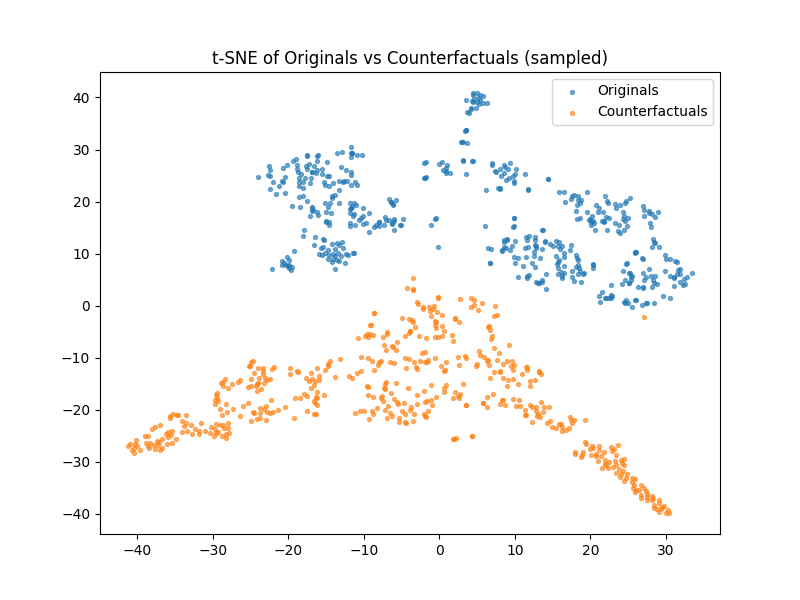
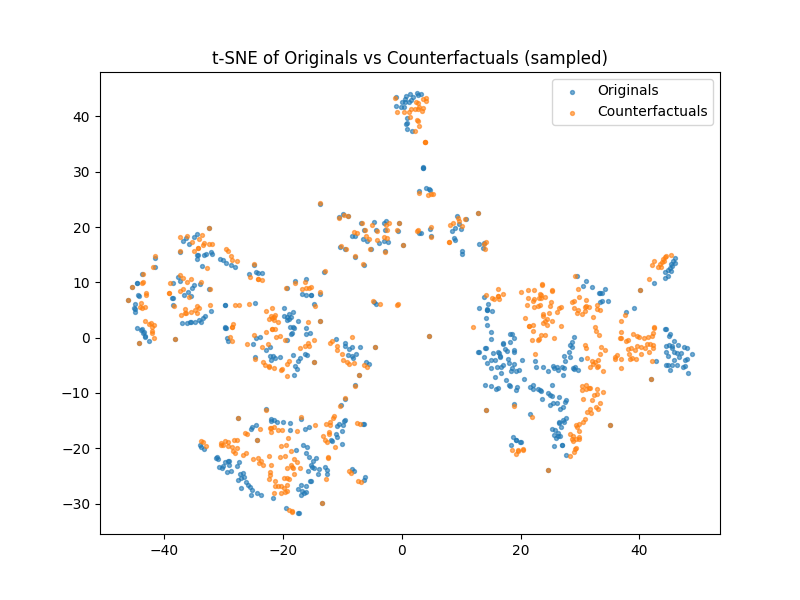
actionability and prediction gain  metrics added, training cleared

diff --git a/conditional_counteRGAN/house_sales_kc_usa/trainer.py b/conditional_counteRGAN/house_sales_kc_usa/trainer.py
@@ -25,7 +25,7 @@ def train_countergan(config, X_train, y_train, clf_model):
     loader = DataLoader(dataset, batch_size=config['batch_size'], shuffle=True, drop_last=True)
 
     # Models
-    G = ResidualGenerator(config['input_dim'], config['z_dim'], config['hidden_dim'], num_classes).to(device)
+    G = ResidualGenerator(config['input_dim'], config['hidden_dim'], num_classes).to(device)
     D = Discriminator(config['input_dim'], config['hidden_dim'], num_classes).to(device)
 
     opt_G = optim.Adam(G.parameters(), lr=config['lr_G'])
@@ -40,7 +40,6 @@ def train_countergan(config, X_train, y_train, clf_model):
     for epoch in range(config['epochs']):
         epoch_d_losses = []
         epoch_g_losses = []
-        epoch_div_losses = []
 
         for x_batch, y_batch in loader:
             x_batch = x_batch.to(device)
@@ -52,25 +51,18 @@ def train_countergan(config, X_train, y_train, clf_model):
             target_y = torch.where(target_y == y_batch, (target_y + 1) % num_classes, target_y)
             target_onehot = F.one_hot(target_y, num_classes).float()
 
-            # two noise draws for diversity loss / mode-seeking
-            z1 = torch.randn(bs, config['z_dim'], device=device)
-            z2 = torch.randn(bs, config['z_dim'], device=device)
-
-            # compute two deltas (residuals)
-            delta1 = G(x_batch, target_onehot, z1)  # used for D and for main G loss
-            delta2 = G(x_batch, target_onehot, z2)  # used only for diversity loss
-            x_cf1 = x_batch + delta1
+            # compute residual
+            residual = G(x_batch, target_onehot)  # used for D and for main G loss
+            x_cf = x_batch + residual
 
             # -------------------------
             # Train Discriminator
             # -------------------------
-            D_real, D_real_cls = D(x_batch)
-            D_fake, _ = D(x_cf1.detach())
+            D_real = D(x_batch)
+            D_fake = D(x_cf.detach())
 
-            # WGAN-style adversarial loss for D (critic)
-            adv_loss_D = -D_real.mean() + D_fake.mean()
-            cls_loss_D = F.cross_entropy(D_real_cls, y_batch)
-            D_loss = adv_loss_D + config['lambda_cls'] * cls_loss_D
+            # original adversarial discriminator loss
+            D_loss = -D_real.mean() + D_fake.mean()
 
             opt_D.zero_grad()
             D_loss.backward()
@@ -79,28 +71,23 @@ def train_countergan(config, X_train, y_train, clf_model):
             # -------------------------
             # Train Generator
             # -------------------------
-            D_fake_forG, _ = D(x_cf1)
+
+            D_fake_forG = D(x_cf)
+
+            # original adversarial loss for generator
             G_adv_loss = -D_fake_forG.mean()
 
-            # classifier (external) encourages x_cf to be classified as target_y
-            clf_preds = clf_model(x_cf1)
-            G_cls_loss = F.cross_entropy(clf_preds, target_y)
+            # classifier (external) encourages x_cf to be classified as target_y - marked as V_CF in the paper
+            clf_preds = clf_model(x_cf)  # logits
+            G_cls_loss = F.cross_entropy(clf_preds, target_y) # original classifier loss: Ex∼pdata log (1 − Ct(x + G(x))). x_cf= x + G(x)
 
-            # regularizer: L1 norm of the delta (proximity)
-            G_reg_loss = torch.mean(torch.norm(delta1, p=1, dim=1))
-
-            # diversity (mode-seeking) loss: encourage delta1 != delta2 for different z
-            # normalize by latent difference to avoid scaling issues
-            numerator = torch.mean(torch.abs(delta1 - delta2))
-            denom = torch.mean(torch.abs(z1 - z2)) + config['eps']  # add small value to avoid division by zero
-            div_loss = - (numerator / denom)  # negative because we reward maximizing diversity
-            # if lambda_div == 0 this term doesn't affect anything
+            # regularizer: L1 norm of the residual (proximity)
+            G_reg_loss = torch.mean(torch.norm(residual, p=1, dim=1))
 
             G_loss = (
                 G_adv_loss +
-                config['lambda_cls'] * G_cls_loss +
-                config['lambda_reg'] * G_reg_loss +
-                config['lambda_div'] * div_loss
+                G_cls_loss * config['lambda_cls'] +
+                G_reg_loss * config['lambda_reg']
             )
 
             opt_G.zero_grad()
@@ -109,22 +96,19 @@ def train_countergan(config, X_train, y_train, clf_model):
 
             epoch_d_losses.append(D_loss.item())
             epoch_g_losses.append(G_loss.item())
-            epoch_div_losses.append(div_loss.item())
 
         # epoch log
         d_losses.append(np.mean(epoch_d_losses))
         g_losses.append(np.mean(epoch_g_losses))
-        div_losses.append(np.mean(epoch_div_losses))
 
         if (epoch + 1) % 1 == 0 or epoch == 0:
             print(f"[{epoch+1}/{config['epochs']}] "
-                  f"D: {d_losses[-1]:.4f}, G: {g_losses[-1]:.4f}, div: {div_losses[-1]:.4f}")
+                  f"D: {d_losses[-1]:.4f}, G: {g_losses[-1]:.4f}")
 
     # Save loss curves
     os.makedirs(config['out_dir'], exist_ok=True)
     plt.plot(d_losses, label='Discriminator Loss')
     plt.plot(g_losses, label='Generator Loss')
-    plt.plot(div_losses, label='Diversity Loss')
     plt.xlabel('Epoch')
     plt.ylabel('Loss')
     plt.legend()

diff --git a/conditional_counteRGAN/house_sales_kc_usa/eval_utils.py b/conditional_counteRGAN/house_sales_kc_usa/eval_utils.py
@@ -9,7 +9,6 @@ from torch.utils.data import TensorDataset, DataLoader
 
 def compute_metrics_per_target(generator, classifier, X, y, config, max_vis=500):
     device = config['cuda']
-    z_dim = config['z_dim']
     batch_size = config['batch_size']
 
     X_t = torch.tensor(X, dtype=torch.float32)
@@ -27,8 +26,8 @@ def compute_metrics_per_target(generator, classifier, X, y, config, max_vis=500)
     with torch.no_grad():
         for target in range(num_classes):
             flips_per_batch = [] # class flip rate
-            prox_per_batch = [] # proximity to original
-            div_per_batch = [] # diversity of generated samples
+            pred_gain_per_batch = [] # prediction gain
+            act_per_batch = [] # actionability
 
             for x_batch, y_batch in loader:
                 x_batch = x_batch.to(device)
@@ -45,36 +44,45 @@ def compute_metrics_per_target(generator, classifier, X, y, config, max_vis=500)
                 target_vec = torch.full((bs,), target, device=device, dtype=torch.long)
                 target_onehot = F.one_hot(target_vec, num_classes).float()
 
-                # two noise draws for diversity measurement
-                z1 = torch.randn(bs, z_dim, device=device)
-                z2 = torch.randn(bs, z_dim, device=device)
+                residual = generator(x, target_onehot)
+                cf = x + residual
 
-                delta1 = generator(x, target_onehot, z1)
-                delta2 = generator(x, target_onehot, z2)
-                cf1 = x + delta1
-                cf2 = x + delta2
+                cf_classifier_preds = classifier(cf)
+                cf_preds = cf_classifier_preds.argmax(dim=1)
+                flip_rate = (cf_preds == target_vec).float().mean().item()
 
-                preds = classifier(cf1).argmax(dim=1)
-                flip_rate = (preds == target_vec).float().mean().item()
-                proximity = torch.mean(torch.abs(delta1)).item()
-                diversity = torch.mean(torch.abs(cf1 - cf2)).item()
+                # raw logits
+                logits_orig = classifier(x)
+                logits_cf = cf_classifier_preds
+
+                # softmax probabilities (batch_size, num_classes)
+                probs_orig = F.softmax(logits_orig, dim=1)
+                probs_cf = F.softmax(logits_cf, dim=1)
+
+                # pick probability for the *target class t*
+                p_orig = probs_orig[torch.arange(bs), target_vec]
+                p_cf = probs_cf[torch.arange(bs), target_vec]
+
+                pred_gain = (p_cf - p_orig).mean().item()
+                actionability = torch.mean(torch.abs(residual)).item()
 
                 flips_per_batch.append(flip_rate)
-                prox_per_batch.append(proximity)
-                div_per_batch.append(diversity)
+                pred_gain_per_batch.append(pred_gain)
+                act_per_batch.append(actionability)
 
                 # collect a few for visualization
                 if len(originals_vis) < max_vis:
                     originals_vis.append(x.cpu())
-                    cfs_vis.append(cf1.cpu())
+                    cfs_vis.append(cf.cpu())
 
             # aggregate target
             results.append({
                 'target_class': target,
                 'class_flip': float(np.mean(flips_per_batch)) if flips_per_batch else np.nan,
-                'avg_proximity': float(np.mean(prox_per_batch)) if prox_per_batch else np.nan,
-                'diversity': float(np.mean(div_per_batch)) if div_per_batch else np.nan
+                'prediction_gain': float(np.mean(pred_gain_per_batch)) if pred_gain_per_batch else np.nan,
+                'avg_actionability': float(np.mean(act_per_batch)) if act_per_batch else np.nan
             })
+
 
     # concatenate visuals (limited)
     if originals_vis:

diff --git a/conditional_counteRGAN/house_sales_kc_usa/models/discriminator.py b/conditional_counteRGAN/house_sales_kc_usa/models/discriminator.py
@@ -5,19 +5,16 @@ import torch.nn.utils.spectral_norm as spectral_norm
 class Discriminator(nn.Module):
     def __init__(self, input_dim, hidden_dim, num_classes):
         super().__init__()
-        self.feature_extractor = nn.Sequential(
+        self.net = nn.Sequential(
             spectral_norm(nn.Linear(input_dim, hidden_dim)),
             nn.LeakyReLU(0.2, inplace=True),
             spectral_norm(nn.Linear(hidden_dim, hidden_dim * 2)),
             nn.LeakyReLU(0.2, inplace=True),
             spectral_norm(nn.Linear(hidden_dim * 2, hidden_dim * 4)),
-            nn.LeakyReLU(0.2, inplace=True)
+            nn.LeakyReLU(0.2, inplace=True),
+            spectral_norm(nn.Linear(hidden_dim * 4, 1))
         )
-        self.adv_head = spectral_norm(nn.Linear(hidden_dim * 4, 1))
-        self.cls_head = spectral_norm(nn.Linear(hidden_dim * 4, num_classes))
 
     def forward(self, x):
-        feat = self.feature_extractor(x)
-        adv_out = self.adv_head(feat)
-        cls_out = self.cls_head(feat)
-        return adv_out, cls_out
+        out = self.net(x)
+        return out

diff --git a/conditional_counteRGAN/house_sales_kc_usa/models/generator.py b/conditional_counteRGAN/house_sales_kc_usa/models/generator.py
@@ -16,19 +16,19 @@ class ResidualBlock(nn.Module):
         return x + self.block(x)
 
 class ResidualGenerator(nn.Module):
-    def __init__(self, input_dim, z_dim, hidden_dim, num_classes):
+    def __init__(self, input_dim, hidden_dim, num_classes):
         super().__init__()
-        self.fc_in = nn.Linear(input_dim + z_dim + num_classes, hidden_dim)
+        self.fc_in = nn.Linear(input_dim + num_classes, hidden_dim)
         self.res1 = ResidualBlock(hidden_dim)
         self.res2 = ResidualBlock(hidden_dim)
         self.res3 = ResidualBlock(hidden_dim)
         self.fc_out = nn.Linear(hidden_dim, input_dim)
 
-    def forward(self, x, y_onehot, z):
-        x_input = torch.cat([x, y_onehot, z], dim=1)
+    def forward(self, x, y_onehot):
+        x_input = torch.cat([x, y_onehot], dim=1)
         h = self.fc_in(x_input)
         h = self.res1(h)
         h = self.res2(h)
         h = self.res3(h)
-        delta = self.fc_out(h)
-        return delta
+        residual = self.fc_out(h)
+        return residual

diff --git a/conditional_counteRGAN/house_sales_kc_usa/data_utils.py b/conditional_counteRGAN/house_sales_kc_usa/data_utils.py
@@ -14,7 +14,6 @@ def load_and_preprocess(data_path, seed):
     for i in range(len(bins) - 1):
         print(f"Class {i}: ${bins[i]:,.0f} - ${bins[i+1]:,.0f}")
 
-    
     # Check distribution
     print("Price label distribution:")
     print(df['price_class'].value_counts().sort_index())
@@ -22,10 +21,7 @@ def load_and_preprocess(data_path, seed):
     X = df.drop(columns=['price', 'price_class']).values
     y = df['price_class'].values  # Use quartile class labels
 
-
-    X_train, X_test, y_train, y_test = train_test_split(
-        X, y, test_size=0.2, random_state=seed
-    )
+    X_train, X_test, y_train, y_test = train_test_split(X, y, test_size=0.2, random_state=seed)
 
     scaler = MinMaxScaler()
     X_train_scaled = scaler.fit_transform(X_train)

diff --git a/conditional_counteRGAN/house_sales_kc_usa/config.py b/conditional_counteRGAN/house_sales_kc_usa/config.py
@@ -14,7 +14,6 @@ config = {
     'lambda_cls': 2.0,
     'lambda_reg': 0.5,
     'lambda_div': 9,        # consider increasing lambda_div to help diversity, but too high may hurt class flip
-    'z_dim': 16,               # consider increasing z_dim to help diversity (increase to 8 or 16)
     'hidden_dim': 32,
     'output_dim': 1,
     'epochs': 20,

diff --git a/conditional_counteRGAN/house_sales_kc_usa/main.py b/conditional_counteRGAN/house_sales_kc_usa/main.py
@@ -2,7 +2,7 @@
 import torch
 from config import config
 from data_utils import load_and_preprocess
-from nn_classifier import NNClassifier
+from models.nn_classifier import NNClassifier
 from trainer import train_countergan
 from eval_utils import evaluate_pipeline
 
